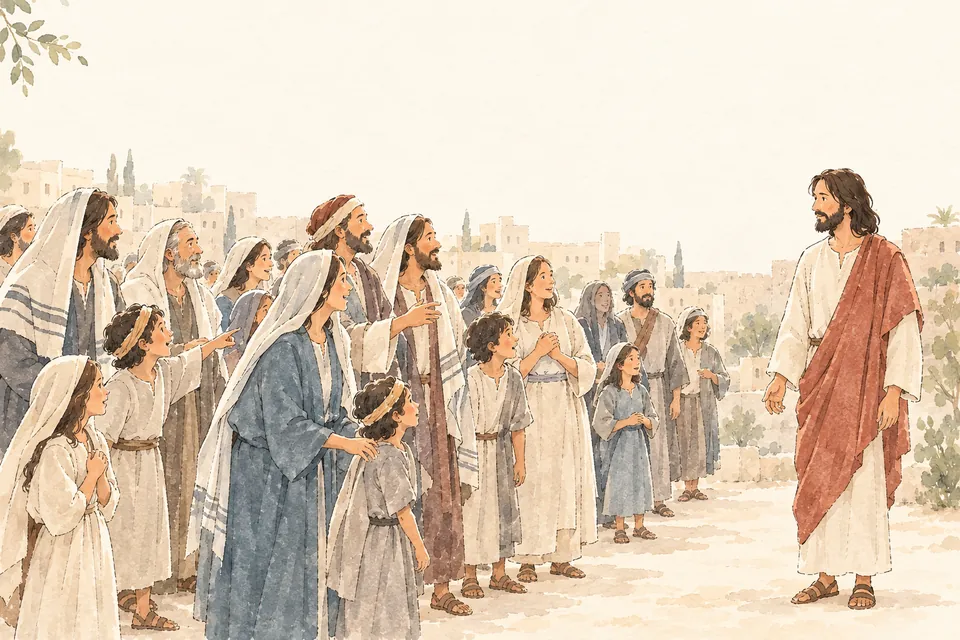
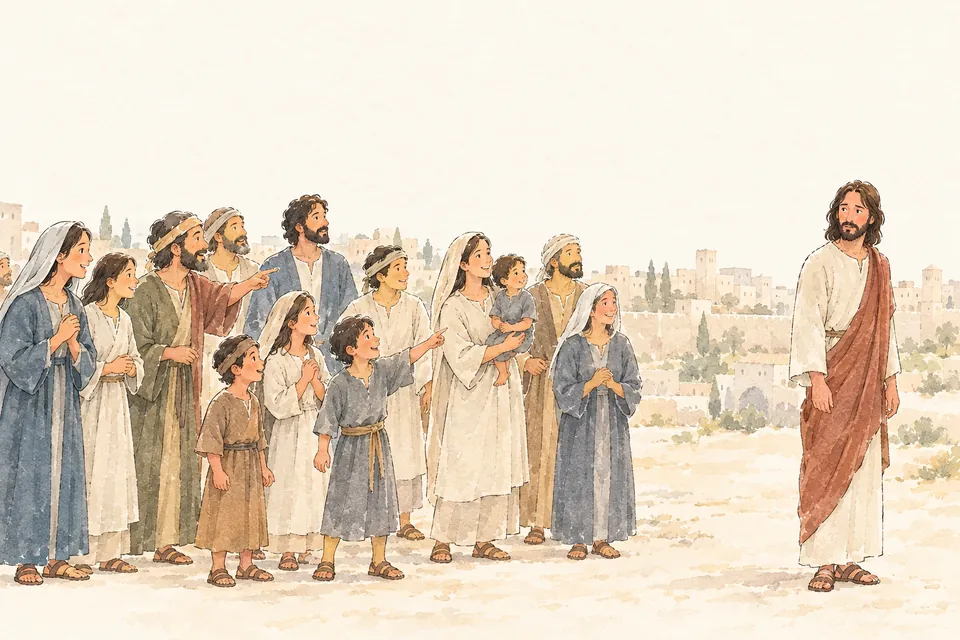
Aquarellstil: Szenenaufträge nach Blindtest Runde 2 (Jünger unterscheidbar, keine Krüge im Hintergrund, Maria grösser, Fragende ohne Blau, Abstand in 2,25); Lizenz, Changelog
Claude-Session: https://claude.ai/code/session_01TBQM7kknaM7y3rfnKagLMB

diff --git a/CHANGELOG.md b/CHANGELOG.md
@@ -2,6 +2,15 @@
 
 Änderungen am Bibel-Wissensfundus. Die Einträge v0.1–v0.5 sind aus den vorhandenen Paketen rekonstruiert; sie sind keine Behauptung über ursprüngliche Veröffentlichungsdaten. Alle fünf Pakete wurden am 8. Oktober 2026 nach GitHub übernommen. Der aktuelle Einstieg und die Bedienung stehen in [README.md](README.md), offene Arbeiten in [Status und Roadmap](docs/STATUS-UND-ROADMAP.md).
 
+## v0.136 — 2026-10-27 — Bildstil «Visuelle Bibel» V1.2; Johannes 2 als Aquarell-Comic
+
+Entscheid von Andi Neck (2026-10-27): Styleguide «Visuelle Bibel» V1.2 (minimalistischer Aquarell-Comic) ins Konzept aufnehmen und auf Johannes 2 anwenden; die bisherigen Bilder ersetzen.
+- **Konzept:** [docs/BILDSTIL.md](docs/BILDSTIL.md) gibt den Styleguide wieder (Gestaltung, Formen, Evidenz B/R/I, Figuren- und Objektkonsistenz, Kana-Fixpunkte, Freigabe) und ergänzt ihn: Stilreferenz nur für die Bildsprache, Erzählszenen gemalt und Masse/Strukturen aus Daten, B/R/I in der Legende, unsere Übersetzung als Textbasis, weiter geltende Darstellungsregeln (Jesus mit Gesicht, Gott nie als Mensch, «die Juden» neutral, Gewalt ohne Ausmalen), Einzelfelder mit Worten als Text. PDFs und Stilreferenz unter `docs/referenz/`; Verweise in AGENTS.md und BILDSPRACHE.md.
+- **Herstellung:** Szenenplan und Figurenblatt (`scripts/authoring/bilder_aquarell_daten/`), Malwerkzeug `bilder_aquarell_gen.py` mit Action «bilder-aquarell» (OpenAI-Bildmodell, Vorlagen: Stilreferenz und Figurenblatt), Ablage `bilder_aquarell.py`: je Bildfeld ein gemaltes Bild (3 : 2), Sprechblasen als Text je Sprache (Hochdeutsch, Züridüütsch) darüber, Stichwortband aus dem Bildauftrag darunter; das Werkzeug prüft jede Blase wörtlich gegen den Lesetext (Kürzungen mit …).
+- **Johannes 2:** sieben gemalte Felder (Kana 3, Tempel 2, Jerusalem 2) auf Abschnittsebene, dieselben drei Hauptszenen auf Kapitelebene; auf der Versebene neben ihren Versen. Sechs zählbare Steinkrüge, Maria sichtbar älter als Jesus, der Speisemeister spricht zum Bräutigam, keine Verwandlungsszene, Geissel erhoben ohne Schlag.
+- **App:** Aquarellbilder ersetzen Anime und Symbol, wo vorhanden (kein Stilumschalter); gemalte Felder auf breiten Bildschirmen untereinander (höchstens 480 px); Legende mit «Was ist belegt?» (B/R/I je Feld mit Stelle), Herkunft als KI-Bild.
+- **Prüfung:** zwei Blindrunden durch getrennte KI-Instanzen (nur Bilder, ohne Auftrag); nach Runde 1 fünf Felder neu gemalt (Krüge im Hintergrund, Alter Marias, erwachsene Diener, Fragende ohne Frauen/Kinder und ohne heutige Gebetsschals, Tauben im Käfig, Abstand Jesu zur Menge). Keine fachliche und keine muttersprachliche Prüfung.
+
 ## v0.135 — 2026-10-27 — Umschalter Text | Bild auf allen Ebenen; Bilder auf Vershöhe
 
 Entscheid von Andi Neck (2026-10-27): «Der ‹nur Text›-Modus entfällt, Bilder auf allen Ebenen bleiben. Auf der Versebene sollen die Bilder im Desktop auf der richtigen Vershöhe sein. Ein Umschalter Text | Bild, wobei man auch beide einblenden kann.»

diff --git a/LIZENZEN.md b/LIZENZEN.md
@@ -80,4 +80,6 @@ Seit v0.15 enthält `app/bible/index.html` zusätzlich Textausschnitte der CNTR-
 
 Bilder in `data/illustrations/` (Stil «Symbol») sind eigene Zeichnungen und stehen wie alle eigenen Inhalte unter CC0 1.0; Fremdbilder werden erst nach Prüfung der Rechte aufgenommen und hier aufgeführt.
 
+**Aquarellbilder** (seit v0.136, `data/illustrations/aquarell/`): KI-generiert mit dem Bildmodell von OpenAI (Image API) nach eigenem Szenenplan, Figurenblatt und Stilreferenz. Nach den Nutzungsbedingungen von OpenAI gehören die Ergebnisse dem Nutzer; urheberrechtlich geschützt sind rein KI-generierte Bilder in der Regel nicht. Wir beanspruchen keine Rechte und stellen sie unter CC0 1.0. Die Stilreferenz `docs/referenz/stilreferenz-aquarell-comic.jpg` und die Styleguide-PDFs in `docs/referenz/` sind von Andi Neck mit ChatGPT erstellte Arbeitsunterlagen (ebenfalls KI-generiert, CC0 1.0); sie dienen nur als Vorlage und sind nicht Teil der App.
+
 **Twemoji** (seit v0.99): `vendor/twemoji/twemoji-auszug.json` enthält einen Auszug aus Twemoji – Grafiken © Twitter, Inc. und weitere Mitwirkende, https://github.com/jdecked/twemoji, lizenziert unter CC BY 4.0 (https://creativecommons.org/licenses/by/4.0/), bezogen über das Paket `@iconify-json/twemoji` 1.2.5. Änderungen: Auswahl, Hautton, teils zu zweit angeordnet oder mit Verbots- bzw. Nein-Zeichen ergänzt (`scripts/authoring/emoji_zeichen.py`). Die daraus gesetzten Bildzeichen in der Symbol-Bibliothek und den Bildern (`data/illustrations/anime/`) stehen insoweit unter CC BY 4.0; die Namensnennung steht in der App unter «Quellen und Rechte» und in der Bildlegende.
